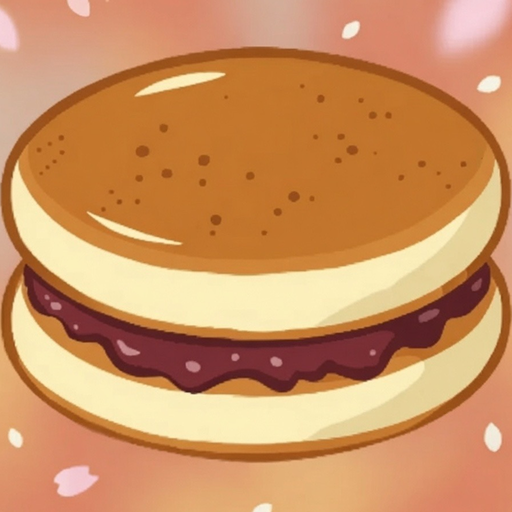
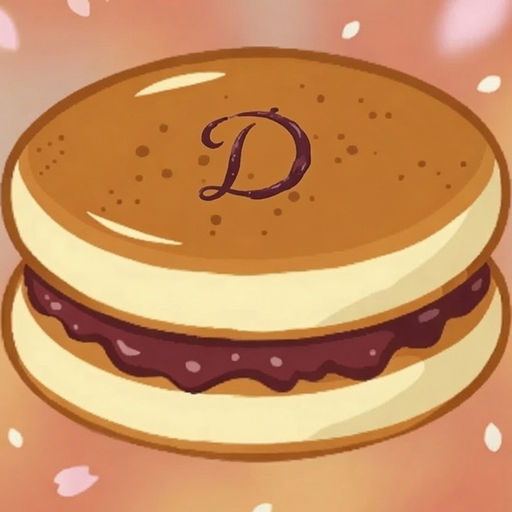
feat: icone Dorayaki avec D + cache-buster v3 (commit unique)

Changed region(s): [[0.375, 0.1875, 0.625, 0.4062]]

diff --git a/index.html b/index.html
@@ -10,7 +10,7 @@
   <meta name="apple-mobile-web-app-title" content="Dorayaki">
   <meta name="theme-color" content="#0b0e15">
   <link rel="manifest" href="manifest.json">
-  <link rel="apple-touch-icon" href="icon-512-full.png?v=2">
+  <link rel="apple-touch-icon" href="icon-512-full.png?v=3">
   <link rel="icon" type="image/png" href="icon-192.png">
 
 <style>
@@ -2491,7 +2491,7 @@ function render(){
   }).join('');
   ROOT.innerHTML=`<div>
     <div style="display:flex;align-items:center;gap:12px;margin-bottom:14px;">
-      <button onclick="backToProfileSelect()" title="Changer de profil" style="background:none;border:0.5px solid var(--border);border-radius:8px;width:36px;height:36px;font-size:18px;cursor:pointer;display:flex;align-items:center;justify-content:center;flex-shrink:0;">👥</button><div style="flex:1;"><div style="font-size:17px;font-weight:600;color:var(--text);">${ACTIVE_PROFILE==='maureen'?'🌸 Maureen':'🏋️ Liam'}</div><div style="font-size:11px;color:var(--text3);margin-top:2px;">${ACTIVE_PROFILE==='maureen'?'Prise de masse · 2700 kcal':'Sèche · 2600 kcal'} <span style="opacity:.4;">· build 2026-07-04 10h50</span></div></div>
+      <button onclick="backToProfileSelect()" title="Changer de profil" style="background:none;border:0.5px solid var(--border);border-radius:8px;width:36px;height:36px;font-size:18px;cursor:pointer;display:flex;align-items:center;justify-content:center;flex-shrink:0;">👥</button><div style="flex:1;"><div style="font-size:17px;font-weight:600;color:var(--text);">${ACTIVE_PROFILE==='maureen'?'🌸 Maureen':'🏋️ Liam'}</div><div style="font-size:11px;color:var(--text3);margin-top:2px;">${ACTIVE_PROFILE==='maureen'?'Prise de masse · 2700 kcal':'Sèche · 2600 kcal'} <span style="opacity:.4;">· build 2026-07-04 11h08</span></div></div>
       ${urgTotal?`<span class="chip" style="background:var(--red-bg);color:var(--red);padding:4px 10px;font-size:12px;">⚠ ${urgTotal} urgents</span>`:''}
       <button onclick="openPhotoOverlay()" title="Analyser une photo" style="background:none;border:0.5px solid var(--border);border-radius:8px;width:36px;height:36px;font-size:18px;cursor:pointer;display:flex;align-items:center;justify-content:center;flex-shrink:0;">📷</button>
       <button onclick="openSettings()" title="Clé API${getApiKey()?' ✓':' — à configurer'}" style="background:none;border:0.5px solid var(--border);border-radius:8px;width:36px;height:36px;font-size:16px;cursor:pointer;display:flex;align-items:center;justify-content:center;flex-shrink:0;color:${getApiKey()?'var(--green)':'var(--orange)'};">⚙</button>

diff --git a/sw.js b/sw.js
@@ -1,5 +1,5 @@
-// build 2026-07-04 10h50
-const CACHE='macros-2026-07-04-1050';
+// build 2026-07-04 11h08
+const CACHE='macros-2026-07-04-1108';
 self.addEventListener('install',e=>{self.skipWaiting();});
 self.addEventListener('activate',e=>{e.waitUntil(caches.keys().then(k=>Promise.all(k.filter(x=>x!==CACHE).map(x=>caches.delete(x)))).then(()=>self.clients.claim()));});
 self.addEventListener('fetch',e=>{if(e.request.url.includes('api.groq.com')||e.request.url.includes('firebasedatabase.app')||e.request.url.includes('openfoodfacts.org'))return;e.respondWith(fetch(e.request).then(r=>{const c=r.clone();caches.open(CACHE).then(x=>x.put(e.request,c));return r;}).catch(()=>caches.match(e.request)));});